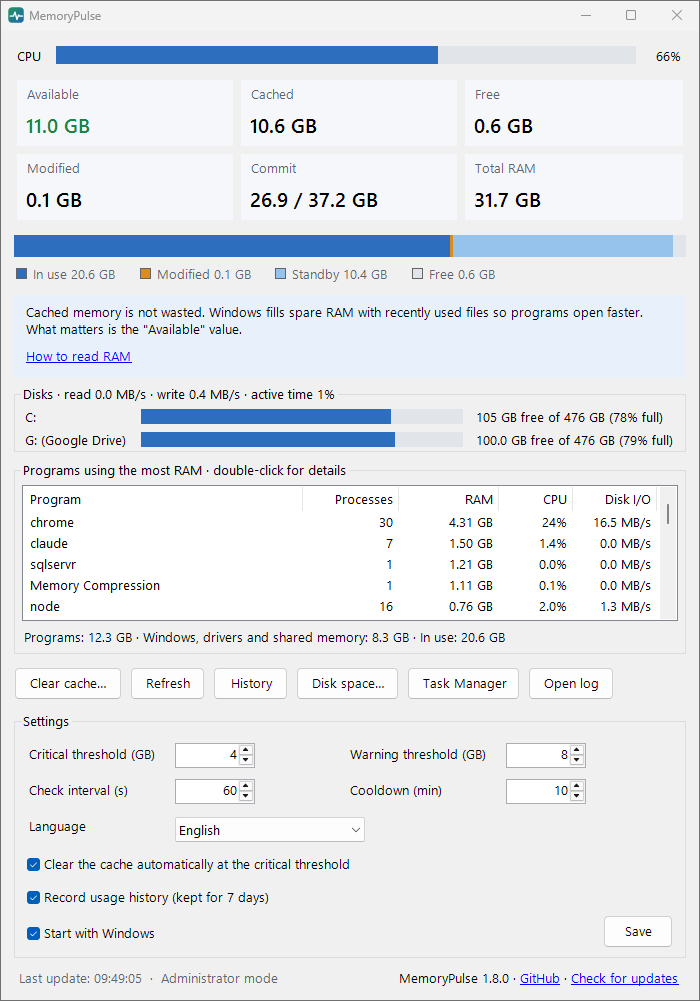
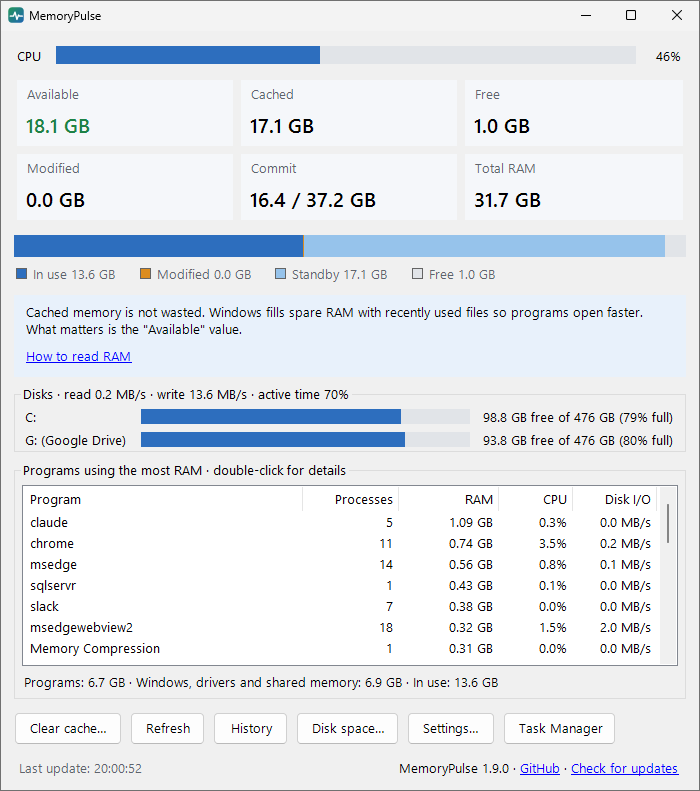
Main window fits the screen it opens on; settings in their own window (1.9.0)
The main window opened at a fixed 700x970, nearly filling a 1080p screen
while the program list showed only 5 rows. It now takes about 80% of the
working area's height on the screen it opens on (never less than the
content needs, never more than the screen) and is centred there; a window
reopened after a language change keeps its bounds.

Settings moved out of the main window into a modal window opened with
Settings... (Save / Cancel); Open log moved there as a link, since the
button row was full. README, README screenshots and CHANGELOG updated.

diff --git a/src/MemoryPulse/MainForm.Settings.cs b/src/MemoryPulse/MainForm.Settings.cs
@@ -1,4 +1,5 @@
 using System;
+using System.Diagnostics;
 using System.Drawing;
 using System.Linq;
 using System.Windows.Forms;
@@ -7,16 +8,36 @@ namespace MemoryPulse
 {
     internal sealed partial class MainForm
     {
+        private const int SettingsWidth = 600; // the settings window's content width at 100% scaling
+
         private NumericUpDown _critical, _warning, _interval, _cooldown;
         private CheckBox _autoClean, _startup;
         private ComboBox _language;
 
-        private Control BuildSettings()
+        /// <summary>The settings, in their own window so the main window stays short.</summary>
+        private void ShowSettings()
+        {
+            bool languageChanged;
+            using (var d = new Form { Text = L.T("settings.title"), Font = Font, AutoScaleMode = AutoScaleMode.Dpi,
+                                      FormBorderStyle = FormBorderStyle.FixedDialog, MaximizeBox = false, MinimizeBox = false,
+                                      ShowInTaskbar = false, StartPosition = FormStartPosition.CenterParent, Icon = Icon,
+                                      Padding = new Padding(12) })
+            {
+                var t = BuildSettings(d);
+                d.Controls.Add(t);
+                Size pref = t.GetPreferredSize(new Size(SettingsWidth, 0));
+                d.ClientSize = new Size(Math.Max(SettingsWidth, pref.Width) + d.Padding.Horizontal, pref.Height + d.Padding.Vertical);
+                if (d.ShowDialog(this) != DialogResult.OK) return;
+                languageChanged = (string)d.Tag == "language";
+            }
+            if (_status != null) _status.Text = L.T("settings.saved", DateTime.Now.ToString("HH:mm:ss", L.Culture));
+            _app.ApplySettings(languageChanged); // recreates this window when the language changed
+        }
+
+        private TableLayoutPanel BuildSettings(Form dialog)
         {
             var s = _app.Settings;
-            var g = new GroupBox { Text = L.T("settings.title"), Dock = DockStyle.Fill, AutoSize = true,
-                                   Margin = new Padding(4), Padding = new Padding(10, 8, 10, 8) };
-            var t = new TableLayoutPanel { Dock = DockStyle.Top, AutoSize = true, ColumnCount = 4 };
+            var t = new TableLayoutPanel { Dock = DockStyle.Fill, AutoSize = true, ColumnCount = 4 };
             t.ColumnStyles.Add(new ColumnStyle(SizeType.AutoSize));
             t.ColumnStyles.Add(new ColumnStyle(SizeType.Percent, 50));
             t.ColumnStyles.Add(new ColumnStyle(SizeType.AutoSize));
@@ -36,18 +57,33 @@ namespace MemoryPulse
             t.Controls.Add(_language, 1, 2);
             t.SetColumnSpan(_language, 3);
 
-            // Store edition: no cache clearing, so no automatic clearing option.
+            // Store edition: no automatic clearing option.
             int row = 3;
             if (Edition.CanAutoClean) _autoClean = Check(t, "settings.autoClean", "tip.autoClean", s.AutoClean, row++);
             _history = Check(t, "settings.history", "tip.history", s.HistoryEnabled, row++);
-            _startup = Check(t, "settings.startup", Edition.IsStore ? "tip.startupStore" : "tip.startup", Startup.IsEnabled(), row);
-            t.SetColumnSpan(_startup, 3);
+            _startup = Check(t, "settings.startup", Edition.IsStore ? "tip.startupStore" : "tip.startup", Startup.IsEnabled(), row++);
 
-            var save = new Button { Text = L.T("settings.save"), AutoSize = true, Padding = new Padding(14, 2, 14, 2), Anchor = AnchorStyles.Right };
-            save.Click += (o, e) => SaveSettings();
-            t.Controls.Add(save, 3, row);
-            g.Controls.Add(t);
-            return g;
+            // Bottom row: the log on the left, Save and Cancel on the right.
+            var log = new LinkLabel { Text = L.T("btn.log"), AutoSize = true, Anchor = AnchorStyles.Left, Margin = new Padding(3, 18, 3, 0) };
+            log.LinkClicked += (o, e) => { if (System.IO.File.Exists(AppPaths.LogFile)) Process.Start("notepad.exe", $"\"{AppPaths.LogFile}\""); };
+            t.Controls.Add(log, 0, row);
+            var buttons = new FlowLayoutPanel { FlowDirection = FlowDirection.RightToLeft, AutoSize = true, Anchor = AnchorStyles.Right,
+                                                Margin = new Padding(0, 12, 0, 0), WrapContents = false };
+            var cancel = new Button { Text = L.T("settings.cancel"), AutoSize = true, Padding = new Padding(14, 2, 14, 2), DialogResult = DialogResult.Cancel };
+            var save = new Button { Text = L.T("settings.save"), AutoSize = true, Padding = new Padding(14, 2, 14, 2) };
+            save.Click += (o, e) =>
+            {
+                if (!SaveSettings(dialog, out bool languageChanged)) return;
+                dialog.Tag = languageChanged ? "language" : null;
+                dialog.DialogResult = DialogResult.OK;
+            };
+            buttons.Controls.Add(cancel);
+            buttons.Controls.Add(save);
+            t.Controls.Add(buttons, 1, row);
+            t.SetColumnSpan(buttons, 3);
+            dialog.AcceptButton = save;
+            dialog.CancelButton = cancel;
+            return t;
         }
 
         private Label Caption(string key) =>
@@ -74,16 +110,18 @@ namespace MemoryPulse
             return c;
         }
 
-        private void SaveSettings()
+        /// <summary>Saves the settings window's values. False when they are not valid or could not be written.</summary>
+        private bool SaveSettings(IWin32Window owner, out bool languageChanged)
         {
+            languageChanged = false;
             if (_warning.Value <= _critical.Value)
             {
-                MessageBox.Show(this, L.T("settings.warningTooLow"), L.T("settings.title"), MessageBoxButtons.OK, MessageBoxIcon.Warning);
-                return;
+                MessageBox.Show(owner, L.T("settings.warningTooLow"), L.T("settings.title"), MessageBoxButtons.OK, MessageBoxIcon.Warning);
+                return false;
             }
             var s = _app.Settings;
             string lang = ((LangItem)_language.SelectedItem).Code;
-            bool languageChanged = lang != s.Language;
+            languageChanged = lang != s.Language;
             s.CriticalGb = (int)_critical.Value;
             s.WarningGb = (int)_warning.Value;
             s.IntervalSec = (int)_interval.Value;
@@ -94,8 +132,8 @@ namespace MemoryPulse
             try { s.Save(); }
             catch (Exception ex) when (ex is System.IO.IOException || ex is UnauthorizedAccessException)
             {
-                MessageBox.Show(this, L.T("settings.saveFailed", ex.Message), L.T("settings.title"), MessageBoxButtons.OK, MessageBoxIcon.Error);
-                return;
+                MessageBox.Show(owner, L.T("settings.saveFailed", ex.Message), L.T("settings.title"), MessageBoxButtons.OK, MessageBoxIcon.Error);
+                return false;
             }
 
             if (_startup.Checked != Startup.IsEnabled())
@@ -106,14 +144,12 @@ namespace MemoryPulse
                 {
                     _startup.Checked = Startup.IsEnabled();
                     if (r == ActionResult.Failed)
-                        MessageBox.Show(this, L.T("settings.startupFailed"), L.T("settings.title"), MessageBoxButtons.OK, MessageBoxIcon.Warning);
+                        MessageBox.Show(owner, L.T("settings.startupFailed"), L.T("settings.title"), MessageBoxButtons.OK, MessageBoxIcon.Warning);
                     else if (Edition.IsStore && StoreStartup.DisabledByUser())
-                        MessageBox.Show(this, L.T("settings.startupDisabledByUser"), L.T("settings.title"), MessageBoxButtons.OK, MessageBoxIcon.Information);
+                        MessageBox.Show(owner, L.T("settings.startupDisabledByUser"), L.T("settings.title"), MessageBoxButtons.OK, MessageBoxIcon.Information);
                 }
             }
-
-            if (_status != null) _status.Text = L.T("settings.saved", DateTime.Now.ToString("HH:mm:ss", L.Culture));
-            _app.ApplySettings(languageChanged); // recreates this window when the language changed
+            return true;
         }
 
         private sealed class LangItem

diff --git a/src/MemoryPulse/MainForm.cs b/src/MemoryPulse/MainForm.cs
@@ -19,6 +19,8 @@ namespace MemoryPulse
         private ListView _list;
         private Label _listTotal;
         private Label _status;
+        private TableLayoutPanel _root;
+        private int _listRow;
         private MemorySnapshot _last;
 
 
@@ -29,13 +31,13 @@ namespace MemoryPulse
             Font = new Font("Segoe UI", 9.75f);
             AutoScaleMode = AutoScaleMode.Dpi;
             StartPosition = FormStartPosition.CenterScreen;
-            ClientSize = new Size(700, 970);
+            ClientSize = new Size(700, 760); // OnLoad fits it to the screen it opens on
             MinimumSize = new Size(600, 480);
             AutoScroll = true;
             Padding = new Padding(10);
             Icon = Icon.ExtractAssociatedIcon(Application.ExecutablePath);
 
-            var root = new TableLayoutPanel { Dock = DockStyle.Fill, ColumnCount = 1 };
+            var root = _root = new TableLayoutPanel { Dock = DockStyle.Fill, ColumnCount = 1 };
             root.ColumnStyles.Add(new ColumnStyle(SizeType.Percent, 100));
             Controls.Add(root);
             AddRow(root, BuildCpu());
@@ -44,12 +46,11 @@ namespace MemoryPulse
             AddRow(root, BuildLegend());
             AddRow(root, BuildInfo());
             AddRow(root, BuildDisks());
-            int listRow = root.RowCount;
+            _listRow = root.RowCount;
             AddRow(root, BuildList(), SizeType.Percent, 100);
             AddRow(root, BuildButtons());
-            AddRow(root, BuildSettings());
             AddRow(root, BuildFooter());
-            KeepScrollable(root, listRow);
+            KeepScrollable(root, _listRow);
 
             _app.Updated += OnUpdated;
             _refresh.Tick += (s, e) => RefreshNow();
@@ -202,8 +203,8 @@ namespace MemoryPulse
             Add("btn.refresh", RefreshNow);
             Add("btn.history", _app.ShowHistory, "tip.historyBtn");
             Add("btn.disk", _app.ShowDiskSpace, "tip.diskBtn");
+            Add("btn.settings", ShowSettings);
             Add("btn.taskmgr", Program.OpenTaskManager);
-            Add("btn.log", () => { if (System.IO.File.Exists(AppPaths.LogFile)) Process.Start("notepad.exe", $"\"{AppPaths.LogFile}\""); });
             return f;
         }
 

diff --git a/src/MemoryPulse/MainForm.Disk.cs b/src/MemoryPulse/MainForm.Disk.cs
@@ -95,11 +95,25 @@ namespace MemoryPulse
             };
         }
 
+        private const int ScreenSharePercent = 80; // the window takes this much of the screen's height when it opens
+
+        /// <summary>
+        /// Sizes the window to the screen it opens on: about 80% of its height, never less than the content needs
+        /// with the shortest list (a shorter screen gets the whole height and a scroll bar), never more than the screen.
+        /// A window reopened after a language change keeps its place and size.
+        /// </summary>
         protected override void OnLoad(EventArgs e)
         {
             base.OnLoad(e);
-            Rectangle area = Screen.FromControl(this).WorkingArea;
-            if (Height > area.Height) { Height = area.Height; Top = area.Top; }
+            if (StartPosition != FormStartPosition.CenterScreen) return;
+            Rectangle area = Screen.FromPoint(Cursor.Position).WorkingArea;
+            _root.PerformLayout();
+            int[] rows = _root.GetRowHeights();
+            int needed = rows.Sum() - rows[_listRow] + ListMinHeight + Padding.Vertical + (Height - ClientSize.Height);
+            int height = Math.Min(area.Height, Math.Max(area.Height * ScreenSharePercent / 100, needed));
+            int width = Math.Min(area.Width, Width);
+            StartPosition = FormStartPosition.Manual;
+            Bounds = new Rectangle(area.Left + (area.Width - width) / 2, area.Top + (area.Height - height) / 2, width, height);
         }
 
         /// <summary>One row per drive: name, a bar of the used share, free and total size.</summary>

diff --git a/CHANGELOG.md b/CHANGELOG.md
@@ -6,6 +6,8 @@ All notable changes to MemoryPulse are listed here. Versions follow [Semantic Ve
 
 - Sort the program list by clicking a column header. *Processes*, *CPU* and *Disk I/O* list the 25 programs highest in that column; *Program* sorts by name; *RAM* is the usual list. A second click on the same header reverses the order, and Windows' sort arrow shows which column is used. The list's title says what the programs were chosen by, and the choice is kept after a restart.
 - Microsoft Store edition: *Clear cache* is now available. Clearing the cache needs administrator rights, so Windows asks for them (UAC) each time; the rest of the app keeps running without them. Clearing the cache automatically at the critical threshold stays in the GitHub edition only, because it never asks through UAC.
+- The main window fits the screen it opens on: about 80% of the screen's height, centred, so the program list gets the room (before, it opened at a fixed 700×970 and nearly filled a 1080p screen). On a short screen it takes the whole height and scrolls.
+- Settings moved to their own window, opened with *Settings…* under the program list; *Open log* is in that window now. The window has *Save* and *Cancel*.
 - Fixed: when the cache was cleared through UAC, the app could say "The cache could not be cleared" although it had been cleared. The helper that does the clearing crashed while closing, after its work was done, and that was read as a failure.
 
 ## [1.8.2] - 2026-11-17

diff --git a/README.tr.md b/README.tr.md
@@ -48,6 +48,8 @@ MemoryPulse Microsoft Store'da da var: [Store'dan edinin](https://apps.microsoft
 
 ## Ayarlar
 
+Program listesinin altındaki *Ayarlar…* düğmesiyle açılır. *Logu aç* da bu pencerededir.
+
 | Ayar | Varsayılan | Ne yapar |
 |---|---|---|
 | Kritik eşik | 4 GB | Kullanılabilir RAM bunun altına inerse: kırmızı simge, bildirim, isteğe bağlı otomatik önbellek temizliği |

diff --git a/README.md b/README.md
@@ -48,6 +48,8 @@ MemoryPulse is also on the Microsoft Store: [get it from the Store](https://apps
 
 ## Settings
 
+Open them with *Settings…* under the program list. The settings window also has *Open log*.
+
 | Setting | Default | What it does |
 |---|---|---|
 | Critical threshold | 4 GB | Below this much available RAM: red icon, notification, optional automatic cache clearing |
